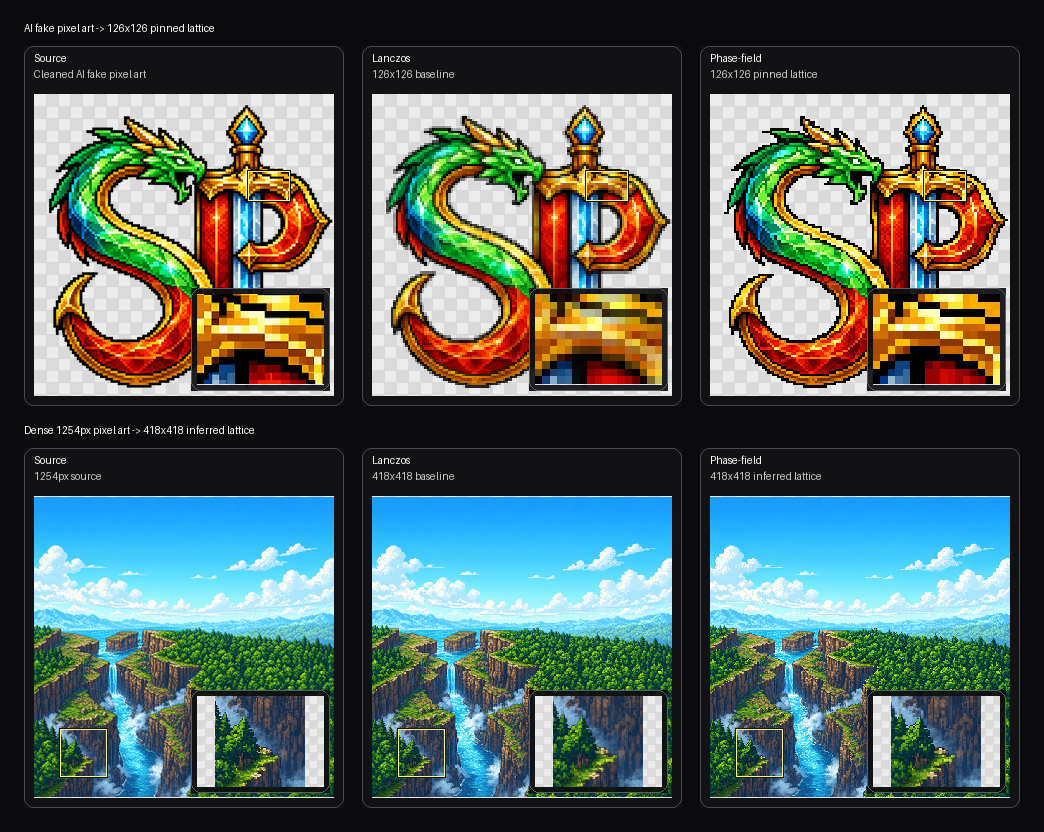
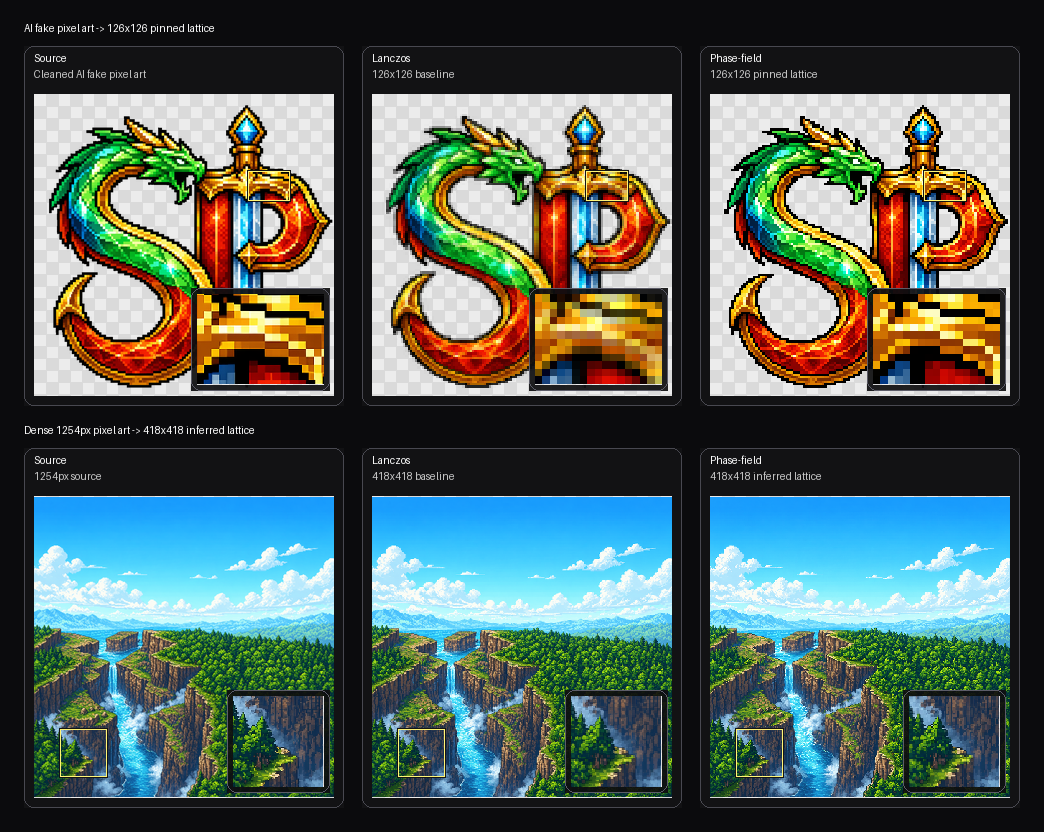
Polish README preview framing

Changed region(s): [[0.4904, 0.8125, 0.6437, 0.9688], [0.8276, 0.8125, 0.9808, 0.9688], [0.1839, 0.8125, 0.3065, 0.9688]]

diff --git a/scripts/generate_readme_previews.py b/scripts/generate_readme_previews.py
@@ -258,6 +258,24 @@ def _build_pip_inset(
     return canvas
 
 
+def _pip_size_for_crop(
+    rgba_crop: np.ndarray,
+    *,
+    max_width: int,
+    max_height: int,
+    padding: int = 12,
+) -> tuple[int, int]:
+    crop_height, crop_width = rgba_crop.shape[:2]
+    if crop_width <= 0 or crop_height <= 0:
+        return max_width, max_height
+    inner_max_width = max(1, max_width - padding)
+    inner_max_height = max(1, max_height - padding)
+    aspect = crop_width / max(1, crop_height)
+    inner_width = int(round(inner_max_height * aspect))
+    inner_width = max(min(inner_width, inner_max_width), min(inner_max_width, inner_max_height))
+    return inner_width + padding, inner_max_height + padding
+
+
 def _add_pip_inset(render: RenderedPanel, inset: Image.Image, *, margin_x: int = 12, margin_y: int = 12) -> None:
     inner_x, inner_y, inner_w, inner_h = render.content_box
     placement_x = inner_x + max(0, inner_w - inset.width - margin_x)
@@ -359,7 +377,8 @@ def _build_row_panels(
         _crop_rgba(row.phase_field_rgba, row.focus_cell_bbox),
     ]
     for panel, crop in zip(panels, inset_crops, strict=True):
-        _add_pip_inset(panel, _build_pip_inset(crop, width=inset_width, height=inset_height), margin_x=4, margin_y=4)
+        pip_width, pip_height = _pip_size_for_crop(crop, max_width=inset_width, max_height=inset_height)
+        _add_pip_inset(panel, _build_pip_inset(crop, width=pip_width, height=pip_height), margin_x=4, margin_y=4)
     return panels, focus_source_bbox
 
 

diff --git a/README.md b/README.md
@@ -7,8 +7,8 @@ look locally pixelated but fall apart the second you ask them to commit to one
 lattice like grown-ups.
 
 Instead of pretending this is a resize problem, Repixelizer treats it as
-lattice inference plus `phase-field` reconstruction: infer the ruler, scout the
-edges, let every output cell search a tiny local window for quieter paint,
+lattice inference plus `phase-field` reconstruction: infer the ruler, preview
+the edges, let every output cell search a tiny local window for quieter paint,
 relax the whole sheet back into a coherent lattice, then sample once and go
 home.
 
@@ -41,9 +41,7 @@ If you want to support the official hosted deployment and help us scale the poor
 
 This sheet carries two cases: the ugly fake-pixel badge and a dense
 higher-resolution landscape. The badge row shows the core salvage story. The
-landscape row is now generated through automatic lattice inference as well, so
-the preview shows the machine we actually ship instead of a pinned-size fairy
-tale wearing a serious hat.
+landscape row shows how the same automatic path handles a much larger source.
 
 Each row carries its own inset, so the tiny details have nowhere to hide.
 
@@ -194,8 +192,7 @@ Run the focused test suite with:
 ## Regenerating README Assets
 
 The README images are generated from repo-tracked fixtures, not from random
-artifacts left lying around. The dense landscape row runs automatic lattice
-inference instead of pinning a fixed output size:
+artifacts left lying around:
 
 ```powershell
 .venv\Scripts\python scripts\generate_readme_previews.py --out-sheet docs\readme-assets\badge-example-sheet.png --out-guard-crop docs\readme-assets\guard-right-crop-comparison.png --scratch-dir artifacts\readme-build --device auto
